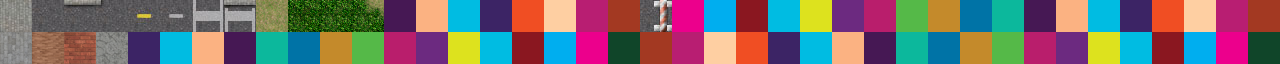
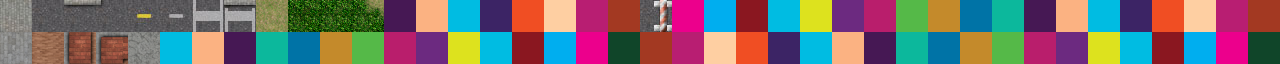
Improved wall tiles and added corners.

Changed region(s): [[0.0312, 0.5, 0.125, 1.0]]

diff --git a/src/map/Map.java b/src/map/Map.java
@@ -339,54 +339,30 @@ public class Map {
 			for (int j = (int) start.getY(); j <= end.getY(); j++) {
 				if (i == start.getX() || i == end.getX() || j == start.getY() || j == end.getY())
 					setTile(i, j, 200, Direction.UP,false);
+				/*
 				else if (i == start.getX()+1 || i == end.getX()-1 || j == start.getY()+1 || j == end.getY()-1)
 					setTile(i, j, 202, Direction.UP,true);
 				else
 					setTile(i, j, 201, Direction.UP,false);
-				/*
-				else if (i == start.getX() + 1 && j == start.getY() + 1) {
-					chunkMap[i / 16][j / 16].add(new MapObject(32, 32,
-							new Point(i * 32, j * 32), 180, 1000, true, null,
-							null, null, MapObjectType.WALL_CORNER));
-					setTile(i, j, 201, Direction.UP);
-				} else if (i == start.getX() + 1 && j == end.getY() - 1) {
-					chunkMap[i / 16][j / 16].add(new MapObject(32, 32,
-							new Point(i * 32, j * 32), 270, 1000, true, null,
-							null, null, MapObjectType.WALL_CORNER));
-					setTile(i, j, 201, Direction.UP);
-				} else if (i == end.getX() - 1 && j == start.getY() + 1) {
-					chunkMap[i / 16][j / 16].add(new MapObject(32, 32,
-							new Point(i * 32, j * 32), 90, 1000, true, null,
-							null, null, MapObjectType.WALL_CORNER));
-					setTile(i, j, 201, Direction.UP);
-				} else if (i == end.getX() - 1 && j == end.getY() - 1) {
-					chunkMap[i / 16][j / 16].add(new MapObject(32, 32,
-							new Point(i * 32, j * 32), 0, 1000, true, null,
-							null, null, MapObjectType.WALL_CORNER));
-					setTile(i, j, 201, Direction.UP);
-				} else if (i == start.getX() + 1) {
-					chunkMap[i / 16][j / 16].add(new MapObject(32, 32,
-							new Point(i * 32, j * 32), 270, 1000, true, null,
-							null, null, MapObjectType.WALL));
-					setTile(i, j, 201, Direction.UP);
-				} else if (j == start.getY() + 1) {
-					chunkMap[i / 16][j / 16].add(new MapObject(32, 32,
-							new Point(i * 32, j * 32), 0, 1000, true, null,
-							null, null, MapObjectType.WALL));
-					setTile(i, j, 201, Direction.UP);
-				} else if (i == end.getX() - 1) {
-					chunkMap[i / 16][j / 16].add(new MapObject(32, 32,
-							new Point(i * 32, j * 32), 90, 1000, true, null,
-							null, null, MapObjectType.WALL));
-					setTile(i, j, 201, Direction.UP);
-				} else if (j == end.getY() - 1) {
-					chunkMap[i / 16][j / 16].add(new MapObject(32, 32,
-							new Point(i * 32, j * 32), 180, 1000, true, null,
-							null, null, MapObjectType.WALL));
-					setTile(i, j, 201, Direction.UP);
-				} else
-					setTile(i, j, 201, Direction.UP);
 					*/
+				else if (i == start.getX() + 1 && j == start.getY() + 1) {
+					setTile(i, j, 203, Direction.DOWN,true);
+				} else if (i == start.getX() + 1 && j == end.getY() - 1) {
+					setTile(i, j, 203, Direction.RIGHT,true);
+				} else if (i == end.getX() - 1 && j == start.getY() + 1) {
+					setTile(i, j, 203, Direction.LEFT,true);
+				} else if (i == end.getX() - 1 && j == end.getY() - 1) {
+					setTile(i, j, 203, Direction.UP,true);
+				} else if (i == start.getX() + 1) {
+					setTile(i, j, 202, Direction.DOWN,true);
+				} else if (j == start.getY() + 1) {
+					setTile(i, j, 202, Direction.LEFT,true);
+				} else if (i == end.getX() - 1) {
+					setTile(i, j, 202, Direction.UP,true);
+				} else if (j == end.getY() - 1) {
+					setTile(i, j, 202, Direction.RIGHT,true);
+				} else
+					setTile(i, j, 201, Direction.UP,false);
 			}
 		}
 		
@@ -477,7 +453,7 @@ public class Map {
 			doorLocation = (int)start.getY()+boxHeight/3;
 			for (int i = (int) start.getY(); i <= end.getY(); i++){
 				if (i != doorLocation)
-					setTile((int)start.getX(), i, 203, Direction.UP, true);	
+					setTile((int)start.getX(), i, 204, Direction.UP, true);	
 			}
 				
 		}
@@ -485,7 +461,7 @@ public class Map {
 			doorLocation = (int)start.getX()+boxWidth/3;
 		for (int i = (int) start.getX(); i <= end.getX(); i++) {
 			if (i != doorLocation)
-				setTile(i, (int)start.getY(), 203, Direction.UP,true);
+				setTile(i, (int)start.getY(), 204, Direction.UP,true);
 		}
 		}
 	}
